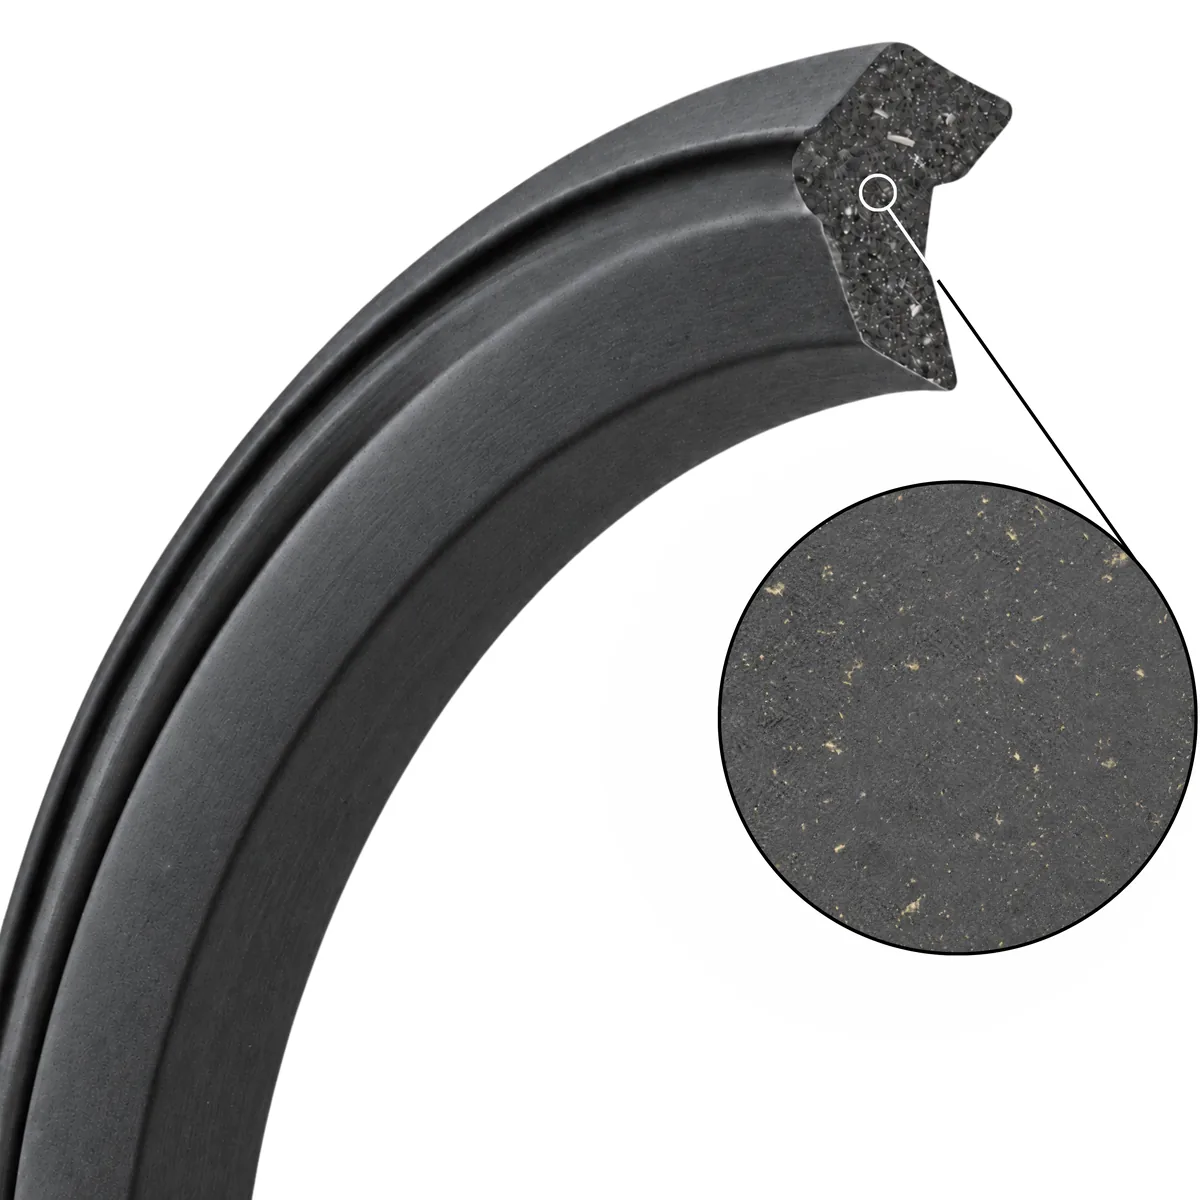
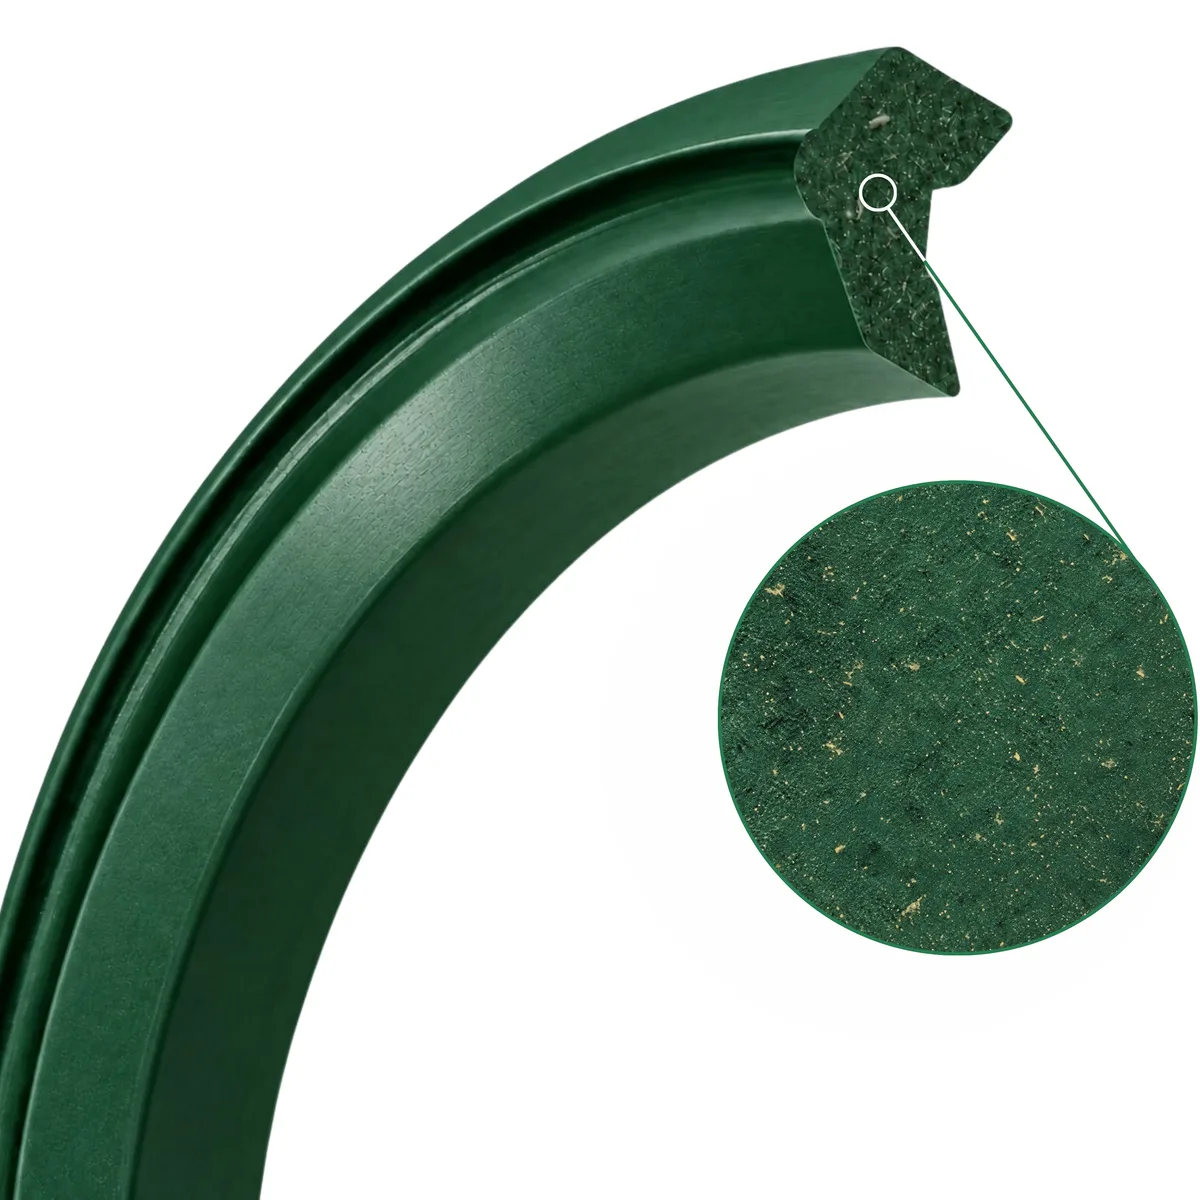
POLYKRAN VF

diff --git a/Página/css/polykran.css b/Página/css/polykran.css
@@ -15,18 +15,23 @@ html:has(.pk2-hero), body:has(.pk2-hero) { overflow-x: clip; }
 
 /* Cabeceras de sección (más grandes que el default de styles.css) */
 .pk2-head { margin-bottom: 26px; }
-.pk2-scene .section-tag, .pk2-tech .section-tag, .pk2-variants .section-tag,
-.pk2-head .section-tag {
-  font-size: 15px; letter-spacing: 2.5px; margin-bottom: 14px;
+.pk2-tech .section-tag, .pk2-head .section-tag {
+  font-size: 25px; letter-spacing: 2.5px; margin-bottom: 14px;
+}
+.pk2-scene .section-tag {
+  font-size: 25px; letter-spacing: 2.5px; margin-bottom: 14px;
+}
+.pk2-variants .section-tag {
+  font-size: 25px; letter-spacing: 2.5px; margin-bottom: 14px;
 }
 .pk2-head .section-title {
-  font-size: clamp(28px, 4vw, 44px); line-height: 1.14; margin-bottom: 0; max-width: 680px;
+  font-size: 20px; line-height: 1.14; margin-bottom: 0; max-width: 680px;
 }
 .pk2-scene-head .section-title {
-  font-size: clamp(23px, 2.9vw, 33px); line-height: 1.22; margin-bottom: 0; max-width: 820px;
+  font-size: 20px; line-height: 1.22; margin-bottom: 0; max-width: 820px;
 }
-.pk2-variants .section-title { font-size: clamp(25px, 3.1vw, 38px); line-height: 1.18; }
-.pk2-variants .section-subtitle { font-size: 16.5px; line-height: 1.6; }
+.pk2-variants .section-title { font-size: 20px; line-height: 1.18; }
+.pk2-variants .section-subtitle { font-size: 15px; line-height: 1.6; }
 
 /* ── HERO ── */
 .pk2-hero {
@@ -44,16 +49,16 @@ html:has(.pk2-hero), body:has(.pk2-hero) { overflow-x: clip; }
 .pk2-hero .container { position: relative; z-index: 2; }
 .pk2-hero-inner { max-width: 780px; margin: 0 auto; text-align: center; }
 .pk2-hero h1 {
-  font-size: clamp(40px, 5.6vw, 60px); font-weight: 800; letter-spacing: 1px;
+  font-size: 50px; font-weight: 800; letter-spacing: 1px;
   line-height: 1; margin: 0 0 20px;
 }
 .pk2-hero h1 sup { font-size: .28em; top: -1.15em; letter-spacing: 0; }
 .pk2-hero-sub {
-  font-size: clamp(16px, 2.1vw, 22px); font-weight: 600; line-height: 1.45;
+  font-size: 20px; font-weight: 600; line-height: 1.45;
   color: #dae7fb; margin: 0 auto 18px; max-width: 600px;
 }
 .pk2-hero-body {
-  font-size: clamp(13.5px, 1.45vw, 15px); line-height: 1.85;
+  font-size: 15px; line-height: 1.85;
   color: rgba(255,255,255,.78); margin: 0 auto; max-width: 620px;
 }
 .pk2-hero-tags { list-style: none; display: flex; flex-wrap: wrap; gap: 8px; margin: 28px 0 0; padding: 0; justify-content: center; }
@@ -65,7 +70,7 @@ html:has(.pk2-hero), body:has(.pk2-hero) { overflow-x: clip; }
 /* ── TECNOLOGÍA: cabecera + proceso interactivo de 4 paneles ── */
 .pk2-tech { padding: 84px 0; background: #F5F8FC; }
 
-.pk2-flow-hint { margin: 0 0 24px; font-size: 13.5px; font-weight: 700; letter-spacing: .4px; color: var(--blue-mid); }
+.pk2-flow-hint { margin: 0 0 24px; font-size: 15px; font-weight: 700; letter-spacing: .4px; color: var(--blue-mid); }
 
 .pk2-flow-row { display: grid; grid-template-columns: repeat(4, 1fr); gap: 16px; }
 .pk2-flow-panel {
@@ -101,7 +106,7 @@ html:has(.pk2-hero), body:has(.pk2-hero) { overflow-x: clip; }
   margin-top: 22px; background: #fff; border: 1px solid var(--border); border-radius: 14px;
   padding: 22px 26px; min-height: 96px; display: flex; align-items: center;
 }
-.pk2-flow-detail-text { margin: 0; font-size: clamp(14.5px, 1.5vw, 16px); line-height: 1.75; color: var(--text-body); max-width: 780px; }
+.pk2-flow-detail-text { margin: 0; font-size: 15px; line-height: 1.75; color: var(--text-body); max-width: 780px; }
 .pk2-flow-detail-text strong { color: var(--blue-dark); }
 .pk2-flow-note { margin: 14px 0 0; font-size: 13px; line-height: 1.5; color: var(--text-muted); }
 
@@ -129,16 +134,12 @@ html:has(.pk2-hero), body:has(.pk2-hero) { overflow-x: clip; }
   max-width: 620px; margin: 0 auto;
 }
 .pk2-step { position: relative; }
-.pk2-step::before {
-  content: attr(data-n); position: absolute; right: -8px; top: -.62em; z-index: -1;
-  font-size: clamp(120px, 19vw, 240px); font-weight: 800; line-height: 1; color: #EDF3FA;
-}
 .pk2-step-eyebrow {
   display: flex; align-items: center; gap: 12px; margin-bottom: 18px;
-  font-size: 15px; font-weight: 800; letter-spacing: 3px; text-transform: uppercase; color: var(--blue-mid);
+  font-size: 25px; font-weight: 800; letter-spacing: 3px; text-transform: uppercase; color: var(--blue-mid);
 }
-.pk2-step h3 { font-size: clamp(25px, 3.3vw, 40px); font-weight: 800; color: var(--blue-dark); line-height: 1.16; margin: 0 0 16px; }
-.pk2-step p { font-size: clamp(15px, 1.7vw, 18px); line-height: 1.7; color: var(--text-body); margin: 0; }
+.pk2-step h3 { font-size: 20px; font-weight: 800; color: var(--blue-dark); line-height: 1.16; margin: 0 0 16px; }
+.pk2-step p { font-size: 15px; line-height: 1.7; color: var(--text-body); margin: 0; }
 
 /* ── VARIANTS ── */
 .pk2-variants { padding: 96px 0; background: #F5F8FC; }
@@ -148,18 +149,18 @@ html:has(.pk2-hero), body:has(.pk2-hero) { overflow-x: clip; }
   transition: transform .4s cubic-bezier(.16,1,.3,1), box-shadow .4s ease, border-color .4s ease;
 }
 .pk2-vcard:hover { transform: translateY(-10px); box-shadow: 0 30px 60px -26px rgba(3,48,109,.42); border-color: var(--blue-mid); }
-.pk2-vbase { font-size: 14px; font-weight: 700; letter-spacing: 2px; text-transform: uppercase; color: var(--text-muted); margin-bottom: 10px; }
-.pk2-vname { font-size: 27px; font-weight: 800; color: var(--blue-dark); letter-spacing: 1px; margin-bottom: 14px; }
+.pk2-vbase { font-size: 12px; font-weight: 700; letter-spacing: 2px; text-transform: uppercase; color: var(--text-muted); margin-bottom: 10px; }
+.pk2-vname { font-size: 20px; font-weight: 800; color: var(--blue-dark); letter-spacing: 1px; margin-bottom: 14px; }
 .pk2-vtemp {
   display: flex; align-items: baseline; justify-content: space-between; gap: 12px;
   padding: 9px 14px; margin-bottom: 16px; background: #F4F7FB; border-radius: 9px;
 }
-.pk2-vtemp span { font-size: 14px; font-weight: 700; letter-spacing: 1.5px; text-transform: uppercase; color: var(--blue-mid); }
-.pk2-vtemp strong { font-size: 16px; font-weight: 800; color: var(--blue-dark); white-space: nowrap; }
-.pk2-vdesc { font-size: 14.5px; line-height: 1.7; color: var(--text-body); margin-bottom: 18px; }
+.pk2-vtemp span { font-size: 12px; font-weight: 700; letter-spacing: 1.5px; text-transform: uppercase; color: var(--blue-mid); }
+.pk2-vtemp strong { font-size: 12px; font-weight: 800; color: var(--blue-dark); white-space: nowrap; }
+.pk2-vdesc { font-size: 15px; line-height: 1.7; color: var(--text-body); margin-bottom: 18px; }
 .pk2-vrow { border-top: 1px solid var(--border); padding-top: 12px; margin-top: 12px; }
-.pk2-vrow-k { font-size: 14px; font-weight: 700; letter-spacing: 1.5px; text-transform: uppercase; color: var(--blue-mid); margin-bottom: 5px; }
-.pk2-vrow-v { font-size: 13.5px; line-height: 1.6; color: var(--text-muted); }
+.pk2-vrow-k { font-size: 15px; font-weight: 700; letter-spacing: 1.5px; text-transform: uppercase; color: var(--blue-mid); margin-bottom: 5px; }
+.pk2-vrow-v { font-size: 12px; line-height: 1.6; color: var(--text-muted); }
 
 /* imagen de corte por variante, al pie de cada pk2-vcard */
 .pk2-vshot-card { margin: 20px 0 0; text-align: center; }
@@ -245,12 +246,8 @@ body:has(.pk2-dock) .floating-actions { bottom: 82px; }
     padding: 30px 24px 32px;
     box-shadow: 0 18px 40px -26px rgba(3,48,109,.35);
   }
-  .pk2-step::before {
-    position: static; display: block; z-index: auto; margin-bottom: 2px;
-    font-size: 48px; line-height: 1; font-weight: 800; color: var(--blue-mid); opacity: .32;
-  }
-  .pk2-step-eyebrow { margin-bottom: 12px; font-size: 11px; }
-  .pk2-step h3 { font-size: 21px; }
+  .pk2-step-eyebrow { margin-bottom: 12px; font-size: 17px; }
+  .pk2-step h3 { font-size: 15px; }
   .pk2-vgrid { margin-top: 30px; }
 }
 @media (max-width: 640px) {
@@ -263,8 +260,8 @@ body:has(.pk2-dock) .floating-actions { bottom: 82px; }
   .pk2-hero-tags { gap: 7px; }
   .pk2-hero-tags li { font-size: 11px; padding: 6px 12px; }
   .pk2-step { padding: 26px 20px 28px; }
-  .pk2-step::before { font-size: 42px; }
-  .pk2-step h3 { font-size: 20px; }
+  .pk2-step-eyebrow { font-size: 16px; }
+  .pk2-step h3 { font-size: 14px; }
   .pk2-scene-head { padding: 46px 0 2px; }
 }
 @media (prefers-reduced-motion: reduce) {
@@ -272,5 +269,4 @@ body:has(.pk2-dock) .floating-actions { bottom: 82px; }
   .pk2-track { animation: none; }
   .pk2-row { overflow-x: auto; -webkit-mask-image: none; mask-image: none; }
   .pk2-step, .pk2-step h3, .pk2-step p { opacity: 1 !important; transform: none !important; transition: none !important; }
-  .pk2-step::before { opacity: .3 !important; transform: none !important; }
 }

diff --git a/Página/css/home.css b/Página/css/home.css
@@ -7,9 +7,9 @@
 /* ── Cabeceras de sección (un poco más grandes que el default) ── */
 .hm-head { max-width: 640px; margin-bottom: 44px; }
 .hm-head.center { margin-left: auto; margin-right: auto; text-align: center; }
-.hm-head .section-tag { font-size: 14px; letter-spacing: 2.5px; margin-bottom: 14px; }
-.hm-head .section-title { font-size: clamp(26px, 3.4vw, 40px); line-height: 1.16; margin-bottom: 14px; }
-.hm-head .section-subtitle { font-size: 16.5px; line-height: 1.7; color: var(--text-muted); margin: 0; max-width: 620px; }
+.hm-head .section-tag { font-size: 25px; letter-spacing: 2.5px; margin-bottom: 14px; }
+.hm-head .section-title { font-size: 20px; line-height: 1.16; margin-bottom: 14px; }
+.hm-head .section-subtitle { font-size: 15px; line-height: 1.7; color: var(--text-muted); margin: 0; max-width: 620px; }
 .hm-head.center .section-subtitle { margin-left: auto; margin-right: auto; }
 
 /* ── HERO: video a pantalla completa de fondo + capa oscura ── */
@@ -74,17 +74,17 @@
 }
 .hm-line-body { display: block; align-self: center; }
 .hm-line-n { display: block; font-size: 12px; font-weight: 800; color: var(--blue-mid); letter-spacing: 2px; margin-bottom: 7px; }
-.hm-line-t { display: block; font-size: 17.5px; font-weight: 700; color: var(--blue-dark); margin: 0 0 7px; line-height: 1.25; }
-.hm-line-d { display: block; font-size: 14px; line-height: 1.6; color: var(--text-muted); margin: 0 0 10px; }
+.hm-line-t { display: block; font-size: 20px; font-weight: 700; color: var(--blue-dark); margin: 0 0 7px; line-height: 1.25; }
+.hm-line-d { display: block; font-size: 15px; line-height: 1.6; color: var(--text-muted); margin: 0 0 10px; }
 .hm-line-tags { display: block; font-size: 12.5px; font-weight: 600; color: var(--blue-mid); letter-spacing: .2px; }
 .hm-line-arrow { font-size: 18px; color: var(--blue-dark); transition: transform .3s ease; }
 .hm-line:hover .hm-line-arrow { transform: translateX(4px); }
 
 /* ════════ 3 · MATERIALES — franja breve (la profundidad va en su página) ════════ */
 .hm-mat { padding: 66px 0; background: #fff; border-top: 1px solid var(--border); border-bottom: 1px solid var(--border); }
-.hm-mat .section-tag { display: block; font-size: 14px; letter-spacing: 2.5px; margin-bottom: 12px; }
-.hm-mat h2 { font-size: clamp(21px, 2.5vw, 28px); font-weight: 800; color: var(--blue-dark); line-height: 1.25; margin: 0 0 12px; }
-.hm-mat p { font-size: 16px; line-height: 1.75; color: var(--text-body); margin: 0 0 20px; max-width: 660px; }
+.hm-mat .section-tag { display: block; font-size: 25px; letter-spacing: 2.5px; margin-bottom: 12px; }
+.hm-mat h2 { font-size: 20px; font-weight: 800; color: var(--blue-dark); line-height: 1.25; margin: 0 0 12px; }
+.hm-mat p { font-size: 15px; line-height: 1.75; color: var(--text-body); margin: 0 0 20px; max-width: 660px; }
 .hm-mat-names { display: flex; flex-wrap: wrap; gap: 8px; margin-bottom: 22px; }
 .hm-mat-names span {
   font-size: 13px; font-weight: 700; letter-spacing: .3px; color: var(--blue-mid);
@@ -105,10 +105,10 @@
 }
 .hm-pk .container { position: relative; z-index: 1; }
 .hm-pk-grid { display: grid; grid-template-columns: 1fr minmax(260px, 360px); gap: 60px; align-items: center; }
-.hm-pk-eyebrow { font-size: 14px; font-weight: 800; letter-spacing: 3px; text-transform: uppercase; color: rgba(255,255,255,.55); margin-bottom: 14px; }
-.hm-pk-word { font-size: clamp(32px, 4.4vw, 48px); font-weight: 800; letter-spacing: 1px; line-height: 1; margin: 0 0 16px; }
+.hm-pk-eyebrow { font-size: 25px; font-weight: 800; letter-spacing: 3px; text-transform: uppercase; color: rgba(255,255,255,.55); margin-bottom: 14px; }
+.hm-pk-word { font-size: 20px; font-weight: 800; letter-spacing: 1px; line-height: 1; margin: 0 0 16px; }
 .hm-pk-word sup { font-size: .3em; top: -1.1em; }
-.hm-pk-desc { font-size: clamp(14px, 1.5vw, 15.5px); line-height: 1.8; color: rgba(255,255,255,.82); margin: 0 0 18px; max-width: 520px; }
+.hm-pk-desc { font-size: 15px; line-height: 1.8; color: rgba(255,255,255,.82); margin: 0 0 18px; max-width: 520px; }
 .hm-pk-variants { font-size: 13.5px; line-height: 1.7; color: #cfe0f7; margin: 0 0 26px; }
 .hm-pk-variants b { font-weight: 800; letter-spacing: .5px; }
 .hm-pk-media {
@@ -121,9 +121,9 @@
    rutas de entrada → proceso de ingeniería (timeline) → capacidades → resultado ════════ */
 .hm-dev { padding: 100px 0; background: #fff; }
 .hm-dev-head { max-width: 720px; margin-bottom: 44px; }
-.hm-dev-head .section-tag { display: block; font-size: 14px; letter-spacing: 2.5px; margin-bottom: 14px; }
-.hm-dev-head h2 { font-size: clamp(26px, 3.4vw, 40px); font-weight: 800; color: var(--blue-dark); line-height: 1.16; margin: 0 0 18px; }
-.hm-dev-head p { font-size: clamp(15px, 1.65vw, 17px); line-height: 1.75; color: var(--text-body); margin: 0; }
+.hm-dev-head .section-tag { display: block; font-size: 25px; letter-spacing: 2.5px; margin-bottom: 14px; }
+.hm-dev-head h2 { font-size: 20px; font-weight: 800; color: var(--blue-dark); line-height: 1.16; margin: 0 0 18px; }
+.hm-dev-head p { font-size: 15px; line-height: 1.75; color: var(--text-body); margin: 0; }
 
 /* ── subtítulos internos (estilo documento técnico) ── */
 .hm-dev-sub {

diff --git a/Página/css/styles.css b/Página/css/styles.css
@@ -228,18 +228,18 @@ section { overflow: hidden; }
 .section-header { text-align: center; margin-bottom: 56px; }
 .section-tag {
   display: inline-block;
-  font-size: 14px; font-weight: 700; letter-spacing: 3px;
+  font-size: 25px; font-weight: 700; letter-spacing: 3px;
   color: var(--blue-mid); text-transform: uppercase;
   margin-bottom: 12px;
 }
 .section-tag.light { color: rgba(255,255,255,0.6); }
 .section-title {
-  font-size: clamp(24px, 3vw, 36px); font-weight: 800;
+  font-size: 20px; font-weight: 800;
   color: var(--blue-dark); line-height: 1.2;
   letter-spacing: -0.3px; margin-bottom: 14px;
 }
 .section-subtitle {
-  font-size: 16px; color: var(--text-muted); max-width: 560px; margin: 0 auto;
+  font-size: 15px; color: var(--text-muted); max-width: 560px; margin: 0 auto;
 }
 
 /* ══════════════════════════════════════
@@ -584,7 +584,7 @@ section { overflow: hidden; }
 
   /* SECTION HEADERS */
   .section-header { margin-bottom: 40px; }
-  .section-tag { font-size: 9px; letter-spacing: 2.5px; }
+  .section-tag { font-size: 22px; letter-spacing: 2.5px; }
   .section-subtitle { font-size: 14px; }
 
   /* PRODUCT LINES */
@@ -800,7 +800,7 @@ section { overflow: hidden; }
   .hero-content { padding: 0 14px; }
   .stat-number { font-size: 22px; }
   .stats-container { gap: 16px 12px; padding: 0 14px; }
-  .section-title { font-size: 22px; }
+  .section-title { font-size: 18px; }
   .pk-hero-title { font-size: 36px; letter-spacing: 0.5px; }
   .polykran-logo { font-size: 32px; letter-spacing: 1px; }
   .page-hero-title { font-size: 22px; }
@@ -1218,9 +1218,9 @@ section { overflow: hidden; }
 .pd-grid { display: grid; grid-template-columns: 1fr 1.05fr; gap: 56px; align-items: start; margin-top: 22px; }
 .pd-media { background: #fff; border: 1px solid var(--border); border-radius: var(--radius); padding: 28px; box-shadow: var(--shadow-md); }
 .pd-media img { width: 100%; height: auto; border-radius: 4px; }
-.pd-cat { display: inline-block; font-size: 14px; font-weight: 700; letter-spacing: 2px; text-transform: uppercase; color: var(--blue-mid); background: var(--blue-light); padding: 5px 12px; border-radius: 4px; margin-bottom: 14px; }
-.pd-title { font-size: 36px; font-weight: 800; color: var(--blue-dark); line-height: 1.15; margin-bottom: 16px; }
-.pd-desc { font-size: 16px; color: var(--text-body); line-height: 1.8; margin-bottom: 22px; }
+.pd-cat { display: inline-block; font-size: 25px; font-weight: 700; letter-spacing: 2px; text-transform: uppercase; color: var(--blue-mid); background: var(--blue-light); padding: 5px 12px; border-radius: 4px; margin-bottom: 14px; }
+.pd-title { font-size: 20px; font-weight: 800; color: var(--blue-dark); line-height: 1.15; margin-bottom: 16px; }
+.pd-desc { font-size: 15px; color: var(--text-body); line-height: 1.8; margin-bottom: 22px; }
 .pd-materials { display: flex; flex-wrap: wrap; gap: 8px; margin-bottom: 26px; }
 .pd-cta { display: flex; gap: 12px; flex-wrap: wrap; }
 .pd-cta .btn-primary { background: var(--blue-dark); color: #fff; }
@@ -1248,7 +1248,8 @@ section { overflow: hidden; }
 
 @media (max-width: 860px) {
   .pd-grid { grid-template-columns: 1fr; gap: 28px; }
-  .pd-title { font-size: 28px; }
+  .pd-cat { font-size: 20px; }
+  .pd-title { font-size: 17px; }
   .pd-twocol { grid-template-columns: 1fr; }
 }
 

diff --git a/Página/polykran.html b/Página/polykran.html
@@ -204,10 +204,10 @@
           <div class="pk2-vtemp"><span>Rango térmico</span><strong>−30 a +120 °C</strong></div>
           <p class="pk2-vdesc">Caucho nitrilo (NBR) con el refuerzo de aramida. Resistente a aceites minerales e hidrocarburos; buena resistencia a extrusión, corte y desgaste.</p>
           <div class="pk2-vrow"><div class="pk2-vrow-k">Aplicación</div><div class="pk2-vrow-v">Vee packing, stuffing boxes, swab cups y sellos dinámicos en crudo dulce y servicio general.</div></div>
-          <!-- DECISION: espacio reservado a la espera de la foto real de NEKLON®; reemplazar por <img> cuando Camilo la entregue -->
-          <div class="pk2-vshot-card pk2-vshot-placeholder" aria-hidden="true">
-            <span>Foto de NEKLON®<br>próximamente</span>
-          </div>
+          <figure class="pk2-vshot-card">
+            <img src="images/otras/neklon.webp" alt="Corte de un sello NEKLON® con zoom a su estructura interna reforzada con microfibras de aramida" width="600" height="600" loading="lazy" decoding="async">
+            <figcaption>Corte de un sello NEKLON®</figcaption>
+          </figure>
         </article>
         <article class="pk2-vcard pk2-rise d1">
           <div class="pk2-vbase">Base: Nitrilo hidrogenado · HNBR</div>
@@ -226,10 +226,10 @@
           <div class="pk2-vtemp"><span>Rango térmico</span><strong>−20 a +200 °C</strong></div>
           <p class="pk2-vdesc">Caucho fluorado (FKM / Vitón®) con el refuerzo de aramida. La base con más resistencia química y térmica: solventes aromáticos, H₂S severo y CO₂.</p>
           <div class="pk2-vrow"><div class="pk2-vrow-k">Aplicación</div><div class="pk2-vrow-v">Sellos en pozos HPHT con química agresiva, BOP seals de alta exigencia y completamiento crítico.</div></div>
-          <!-- DECISION: espacio reservado a la espera de la foto de VIKLON®; reemplazar por <img> cuando Camilo la entregue -->
-          <div class="pk2-vshot-card pk2-vshot-placeholder" aria-hidden="true">
-            <span>Foto de VIKLON®<br>próximamente</span>
-          </div>
+          <figure class="pk2-vshot-card">
+            <img src="images/otras/viklon.webp" alt="Corte de un sello VIKLON® con zoom a su estructura interna reforzada con microfibras de aramida" width="600" height="600" loading="lazy" decoding="async">
+            <figcaption>Corte de un sello VIKLON®</figcaption>
+          </figure>
         </article>
       </div>
 

diff --git a/Página/en/polykran.html b/Página/en/polykran.html
@@ -204,10 +204,10 @@
           <div class="pk2-vtemp"><span>Thermal range</span><strong>−30 to +120 °C</strong></div>
           <p class="pk2-vdesc">Nitrile rubber (NBR) with the aramid reinforcement. Resistant to mineral oils and hydrocarbons; good resistance to extrusion, shear and wear.</p>
           <div class="pk2-vrow"><div class="pk2-vrow-k">Application</div><div class="pk2-vrow-v">Vee packing, stuffing boxes, swab cups and dynamic seals in sweet crude and general service.</div></div>
-          <!-- DECISION: placeholder awaiting the real NEKLON® photo; swap for <img> once Camilo provides it -->
-          <div class="pk2-vshot-card pk2-vshot-placeholder" aria-hidden="true">
-            <span>NEKLON® photo<br>coming soon</span>
-          </div>
+          <figure class="pk2-vshot-card">
+            <img src="../images/otras/neklon.webp" alt="Cross-section of a NEKLON® seal zoomed to its internal structure reinforced with aramid microfibers" width="600" height="600" loading="lazy" decoding="async">
+            <figcaption>Cross-section of a NEKLON® seal</figcaption>
+          </figure>
         </article>
         <article class="pk2-vcard pk2-rise d1">
           <div class="pk2-vbase">Base: Hydrogenated nitrile · HNBR</div>
@@ -226,10 +226,10 @@
           <div class="pk2-vtemp"><span>Thermal range</span><strong>−20 to +200 °C</strong></div>
           <p class="pk2-vdesc">Fluorocarbon rubber (FKM / Viton®) with the aramid reinforcement. The base with the most chemical and thermal resistance: aromatic solvents, severe H₂S and CO₂.</p>
           <div class="pk2-vrow"><div class="pk2-vrow-k">Application</div><div class="pk2-vrow-v">Seals in HPHT wells with aggressive chemistry, high-demand BOP seals and critical completion.</div></div>
-          <!-- DECISION: placeholder awaiting the VIKLON® photo; swap for <img> once Camilo provides it -->
-          <div class="pk2-vshot-card pk2-vshot-placeholder" aria-hidden="true">
-            <span>VIKLON® photo<br>coming soon</span>
-          </div>
+          <figure class="pk2-vshot-card">
+            <img src="../images/otras/viklon.webp" alt="Cross-section of a VIKLON® seal zoomed to its internal structure reinforced with aramid microfibers" width="600" height="600" loading="lazy" decoding="async">
+            <figcaption>Cross-section of a VIKLON® seal</figcaption>
+          </figure>
         </article>
       </div>
 
